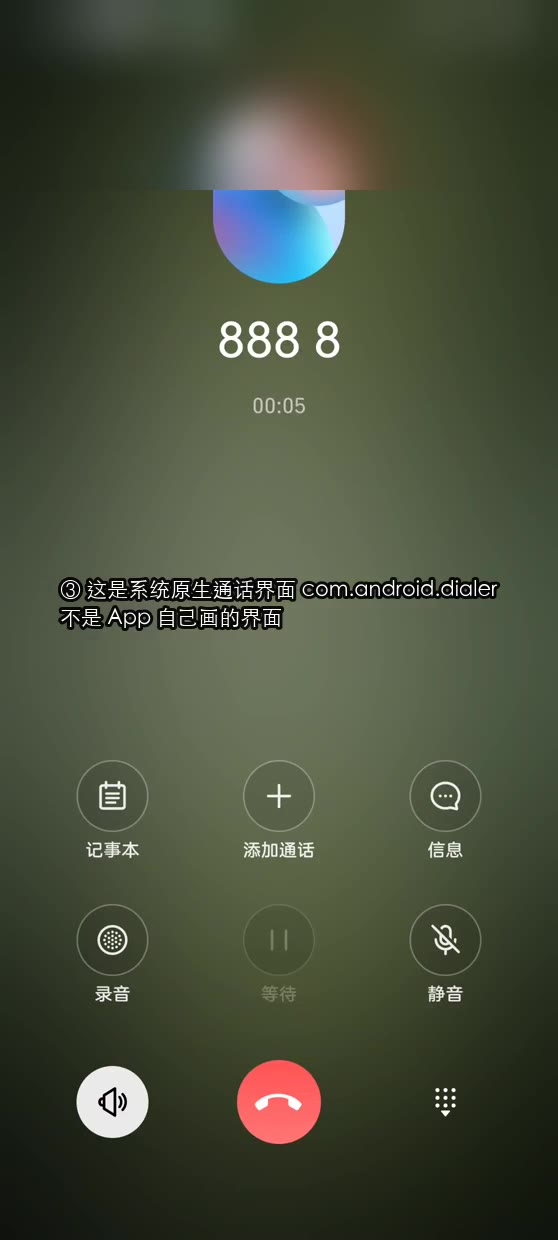
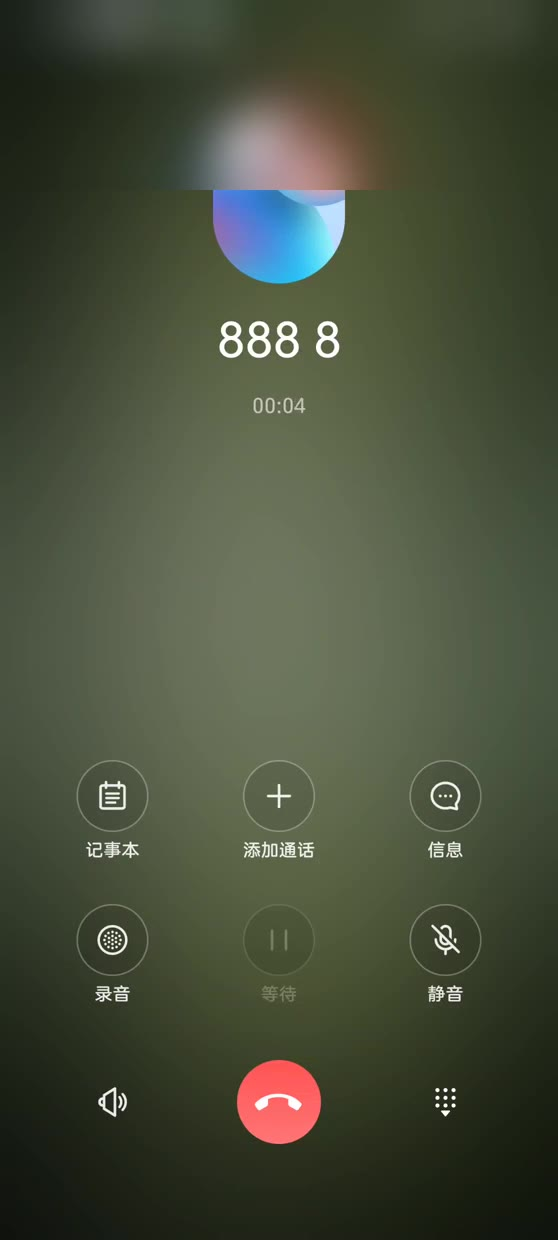
poster: use an in-call frame; zh section heading

Changed region(s): [[0.0914, 0.4597, 0.914, 0.521], [0.1219, 0.8581, 0.2742, 0.9194], [0.5179, 0.3065, 0.5484, 0.3371]]

diff --git a/index.html b/index.html
@@ -101,7 +101,7 @@ hr{border:0; border-top:1px solid var(--line); margin:0 0 56px}
   </section>
 
   <section>
-    <h2>Demo</h2>
+    <h2>演示</h2>
     <figure>
       <video muted playsinline loop controls preload="metadata" poster="media/poster.jpg"
              aria-label="从系统拨号器拨号，在原生通话界面里与 Agent 对话">
